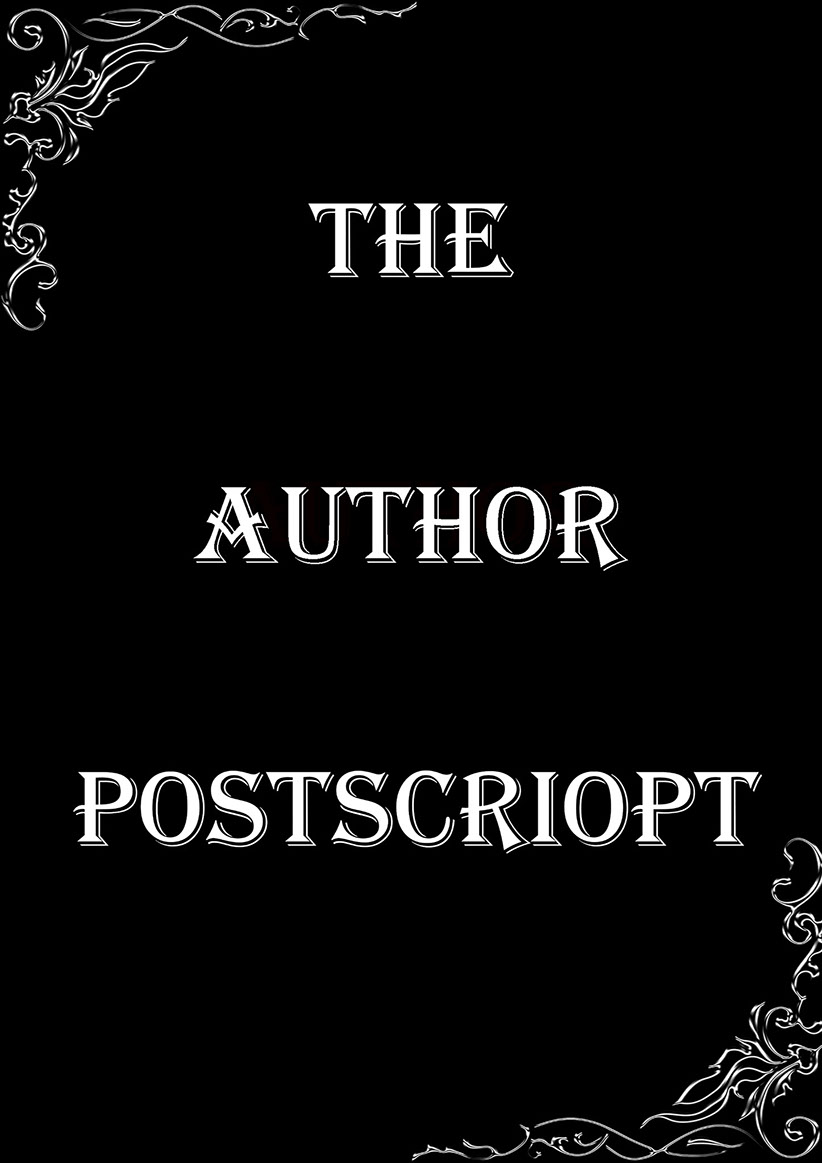
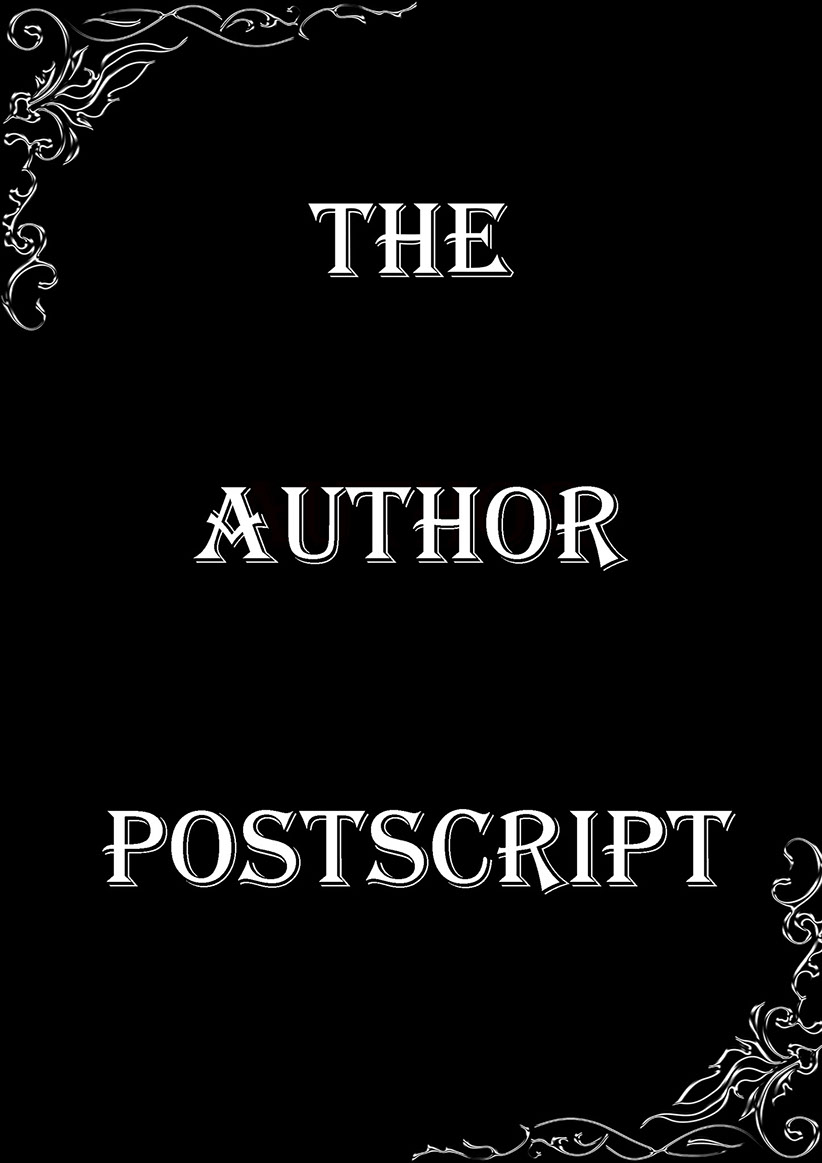
Summary

Changed region(s): [[0.0912, 0.65, 0.9428, 0.7739]]

diff --git a/css/alpha-billionaire-s-club-an-unlikely-unraveling-membership.css b/css/alpha-billionaire-s-club-an-unlikely-unraveling-membership.css
@@ -1,1 +1,1 @@
-.version.alpha_billionaire_s_club_an_unlikely_unraveling_membership{color:#000015;background-color:#EC8710;}#muse_css_mq{background-color:#FFFFFF;}#page{z-index:1;min-height:418px;background-image:none;border-width:0px;border-color:#000000;background-color:#000000;padding-top:20px;padding-bottom:62px;width:100%;max-width:960px;margin-left:auto;margin-right:auto;}#u2276-4{z-index:4;display:block;vertical-align:top;position:relative;width:95.84%;margin-left:2.09%;}#buttonu2476{z-index:124;border-color:#787878;background-color:#FFFFFF;border-radius:10px;margin-top:50px;position:relative;width:95.84%;margin-left:2.09%;}#buttonu2476:hover{background-color:#141414;min-height:0px;width:95.84%;margin:50px 0px 0px 2.083333333333333%;}#buttonu2476.ButtonSelected{background-color:#FFFFFF;min-height:0px;width:95.84%;margin:50px 0px 0px 2.083333333333333%;}#u2477{z-index:126;vertical-align:top;position:relative;margin-right:-10000px;width:84.68%;left:7.72%;}#u2477_states{float:left;width:100%;background:transparent url("../images/u2477_states.png?crc=86427371") no-repeat center;background-size:100%;}#buttonu2476:hover #u2477_states{background:transparent url("../images/u2477_states-r.png?crc=4019414424") no-repeat center;background-size:100%;}#u2425-6{z-index:36;display:block;vertical-align:top;margin-top:49px;position:relative;width:95.84%;margin-left:2.09%;}#pu2273{z-index:2;margin-top:15px;width:89.38%;margin-left:7.82%;}#u2273{z-index:2;background-color:transparent;position:relative;margin-right:-10000px;width:95.81%;}#u2275{z-index:12;min-height:100px;border-width:0px;border-color:transparent;background-color:transparent;position:relative;margin-right:-10000px;margin-top:24px;width:3.38%;left:96.63%;}#u2278-19{z-index:13;display:block;vertical-align:top;position:relative;width:85.73%;margin-left:7.71%;}#u2438-4{z-index:44;display:block;vertical-align:top;margin-top:20px;position:relative;width:85.63%;margin-left:7.82%;}#u2428{z-index:42;background-color:transparent;margin-top:19px;position:relative;width:85.63%;margin-left:7.82%;}#u2451-24{z-index:48;display:block;vertical-align:top;margin-top:25px;position:relative;width:85.63%;margin-left:7.82%;}#u2454-4{z-index:72;display:block;vertical-align:top;margin-top:19px;position:relative;width:85.63%;margin-left:7.82%;}#u2457{z-index:76;background-color:transparent;margin-top:20px;position:relative;width:85.63%;margin-left:7.82%;}#u2273_img,#u2428_img,#u2457_img{width:100%;}#u2467-14{z-index:78;display:block;vertical-align:top;margin-top:24px;position:relative;width:86.15%;margin-left:7.3%;}#u2473-32{z-index:92;display:block;vertical-align:top;margin-top:50px;position:relative;width:85.63%;margin-left:7.82%;}#u2279-4{z-index:8;min-height:20px;background-color:transparent;text-align:center;color:#FFFFFF;margin-top:27px;position:relative;width:85.63%;margin-left:7.82%;}#buttonu2284{z-index:32;border-color:#787878;background-color:#FFFFFF;border-radius:10px;margin-top:27px;position:relative;width:95.84%;margin-left:2.09%;}#buttonu2284:hover{background-color:#141414;min-height:0px;width:95.84%;margin:27px 0px 0px 2.083333333333333%;}#buttonu2284.ButtonSelected{background-color:#FFFFFF;min-height:0px;width:95.84%;margin:27px 0px 0px 2.083333333333333%;}#u2285{z-index:34;vertical-align:top;position:relative;margin-right:-10000px;width:84.68%;left:7.72%;}#u2285_states{float:left;width:100%;background:transparent url("../images/u2285_states.png?crc=86427371") no-repeat center;background-size:100%;}#u2477_states .fluid_height_spacer,#u2285_states .fluid_height_spacer{padding-bottom:7.830551989730424%;}#buttonu2284:hover #u2285_states{background:transparent url("../images/u2285_states-r.png?crc=4019414424") no-repeat center;background-size:100%;}.css_verticalspacer .verticalspacer{height:calc(100vh - 10044px);}.html{background-color:#000000;}body{position:relative;min-width:320px;}
+.version.alpha_billionaire_s_club_an_unlikely_unraveling_membership{color:#0000FF;background-color:#77828D;}#muse_css_mq{background-color:#FFFFFF;}#page{z-index:1;min-height:418px;background-image:none;border-width:0px;border-color:#000000;background-color:#000000;padding-top:20px;padding-bottom:62px;width:100%;max-width:960px;margin-left:auto;margin-right:auto;}#u2276-4{z-index:4;display:block;vertical-align:top;position:relative;width:95.84%;margin-left:2.09%;}#buttonu2476{z-index:123;border-color:#787878;background-color:#FFFFFF;border-radius:10px;margin-top:50px;position:relative;width:95.84%;margin-left:2.09%;}#buttonu2476:hover{background-color:#141414;min-height:0px;width:95.84%;margin:50px 0px 0px 2.083333333333333%;}#buttonu2476.ButtonSelected{background-color:#FFFFFF;min-height:0px;width:95.84%;margin:50px 0px 0px 2.083333333333333%;}#u2477{z-index:125;vertical-align:top;position:relative;margin-right:-10000px;width:84.68%;left:7.72%;}#u2477_states{float:left;width:100%;background:transparent url("../images/u2477_states.png?crc=86427371") no-repeat center;background-size:100%;}#buttonu2476:hover #u2477_states{background:transparent url("../images/u2477_states-r.png?crc=4019414424") no-repeat center;background-size:100%;}#u2425-6{z-index:35;display:block;vertical-align:top;margin-top:49px;position:relative;width:95.84%;margin-left:2.09%;}#pu2273{z-index:2;margin-top:15px;width:90.11%;margin-left:7.82%;}#u2273{z-index:2;background-color:transparent;position:relative;margin-right:-10000px;width:95.03%;}#u2485{z-index:127;min-height:116px;border-width:0px;border-color:transparent;background-color:transparent;position:relative;margin-right:-10000px;margin-top:35px;width:3.94%;left:96.07%;}#u2278-19{z-index:12;display:block;vertical-align:top;position:relative;width:85.73%;margin-left:7.71%;}#u2438-4{z-index:43;display:block;vertical-align:top;margin-top:20px;position:relative;width:85.63%;margin-left:7.82%;}#u2428{z-index:41;background-color:transparent;margin-top:19px;position:relative;width:85.63%;margin-left:7.82%;}#u2451-24{z-index:47;display:block;vertical-align:top;margin-top:25px;position:relative;width:85.63%;margin-left:7.82%;}#u2454-4{z-index:71;display:block;vertical-align:top;margin-top:19px;position:relative;width:85.63%;margin-left:7.82%;}#u2457{z-index:75;background-color:transparent;margin-top:20px;position:relative;width:85.63%;margin-left:7.82%;}#u2273_img,#u2428_img,#u2457_img{width:100%;}#u2467-14{z-index:77;display:block;vertical-align:top;margin-top:24px;position:relative;width:86.15%;margin-left:7.3%;}#u2473-32{z-index:91;display:block;vertical-align:top;margin-top:50px;position:relative;width:85.63%;margin-left:7.82%;}#u2279-4{z-index:8;min-height:20px;background-color:transparent;text-align:center;color:#FFFFFF;margin-top:27px;position:relative;width:85.63%;margin-left:7.82%;}#buttonu2284{z-index:31;border-color:#787878;background-color:#FFFFFF;border-radius:10px;margin-top:27px;position:relative;width:95.84%;margin-left:2.09%;}#buttonu2284:hover{background-color:#141414;min-height:0px;width:95.84%;margin:27px 0px 0px 2.083333333333333%;}#buttonu2284.ButtonSelected{background-color:#FFFFFF;min-height:0px;width:95.84%;margin:27px 0px 0px 2.083333333333333%;}#u2285{z-index:33;vertical-align:top;position:relative;margin-right:-10000px;width:84.68%;left:7.72%;}#u2285_states{float:left;width:100%;background:transparent url("../images/u2285_states.png?crc=86427371") no-repeat center;background-size:100%;}#u2477_states .fluid_height_spacer,#u2285_states .fluid_height_spacer{padding-bottom:7.830551989730424%;}#buttonu2284:hover #u2285_states{background:transparent url("../images/u2285_states-r.png?crc=4019414424") no-repeat center;background-size:100%;}.css_verticalspacer .verticalspacer{height:calc(100vh - 10044px);}.html{background-color:#000000;}body{position:relative;min-width:320px;}

diff --git a/alpha-billionaire-s-club-an-unlikely-unraveling-membership.html b/alpha-billionaire-s-club-an-unlikely-unraveling-membership.html
@@ -17,7 +17,7 @@ if(typeof Muse == "undefined") window.Muse = {}; window.Muse.assets = {"required
   <title>Alpha Billionaire's Club An Unlikely Unraveling membership</title>
   <!-- CSS -->
   <link rel="stylesheet" type="text/css" href="css/site_global.css?crc=444006867"/>
-  <link rel="stylesheet" type="text/css" href="css/alpha-billionaire-s-club-an-unlikely-unraveling-membership.css?crc=367822608" id="pagesheet"/>
+  <link rel="stylesheet" type="text/css" href="css/alpha-billionaire-s-club-an-unlikely-unraveling-membership.css?crc=4286022285" id="pagesheet"/>
    </head>
  <body>
 
@@ -32,7 +32,7 @@ if(typeof Muse == "undefined") window.Muse = {}; window.Muse.assets = {"required
     <div class="clip_frame grpelem" id="u2273"><!-- image -->
      <img class="block" id="u2273_img" src="images/abc%20v4-crop-u2273.jpg?crc=135967855" alt="" data-heightwidthratio="1.4184914841849148" data-image-width="822" data-image-height="1166"/>
     </div>
-    <div class="grpelem" id="u2275"><!-- custom html -->
+    <div class="grpelem" id="u2485"><!-- custom html -->
      <!-- Facebook Pixel Code -->
 <script>
 !function(f,b,e,v,n,t,s)
@@ -45,6 +45,9 @@ s.parentNode.insertBefore(t,s)}(window, document,'script',
 'https://connect.facebook.net/en_US/fbevents.js');
 fbq('init', '763399587639667');
 fbq('track', 'PageView');
+
+fbq('track', 'InitiateCheckout');
+
 </script>
 <noscript><img height="1" width="1" style="display:none"
 src="https://www.facebook.com/tr?id=763399587639667&ev=PageView&noscript=1"
@@ -57,7 +60,7 @@ src="https://www.facebook.com/tr?id=763399587639667&ev=PageView&noscript=1"
    <img class="colelem" id="u2278-19" alt="'Bestseller Series' Alpha Billionaire’s Club Book #I An Unlikely Unraveling including 20 Chapter Romance Story between Billionaire extraordinaire Dave Hannigan and his beautiful caregiver Ashleigh, Everything starts from an accident… " src="images/u2278-19.png?crc=342066502" data-image-width="823"/><!-- rasterized frame -->
    <img class="colelem" id="u2438-4" alt="2. My Author PostScript" src="images/u2438-4.png?crc=426342143" data-image-width="822"/><!-- rasterized frame -->
    <div class="clip_frame colelem" id="u2428"><!-- image -->
-    <img class="block" id="u2428_img" src="images/author%20postscrip.jpg?crc=3787113562" alt="" data-heightwidthratio="1.4148418491484185" data-image-width="822" data-image-height="1163"/>
+    <img class="block" id="u2428_img" src="images/author%20postscrip.jpg?crc=3934778842" alt="" data-heightwidthratio="1.4148418491484185" data-image-width="822" data-image-height="1163"/>
    </div>
    <img class="colelem" id="u2451-24" alt="Contains 1.How to find more compelling bestseller book to read (This means endless compelling books to read!) (No matter you use PC, IOS, Android) 2.How to convert unreadable ebook file be readable (This means you can read the file you used to think it's broken and watch what's inside in them!) (No matter you use PC, IOS, Android) 3.How to upload your own ebook to Kindle! (With this you can upload your every ebook to Kindle and read them with it!) (No matter you use PC, IOS, Android)" src="images/u2451-24.png?crc=4287717354" data-image-width="822"/><!-- rasterized frame -->
    <img class="colelem" id="u2454-4" alt="3. Every future new book!" src="images/u2454-4.png?crc=346952413" data-image-width="822"/><!-- rasterized frame -->
